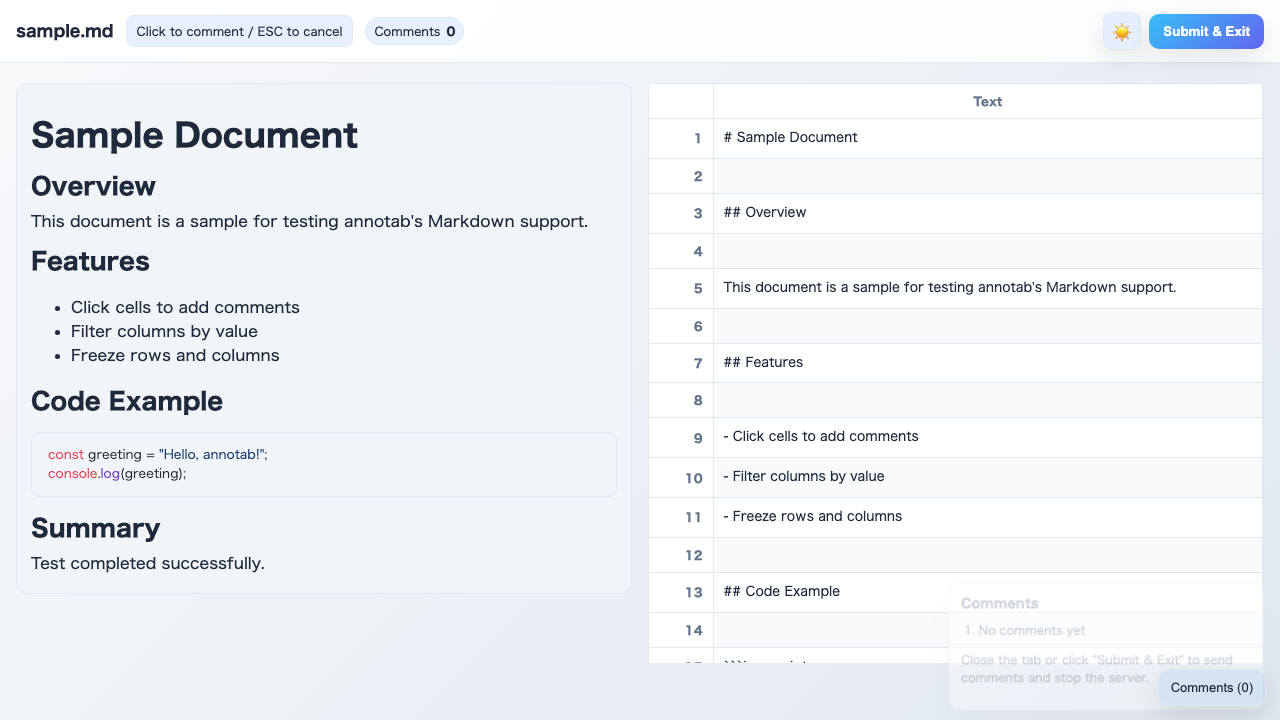
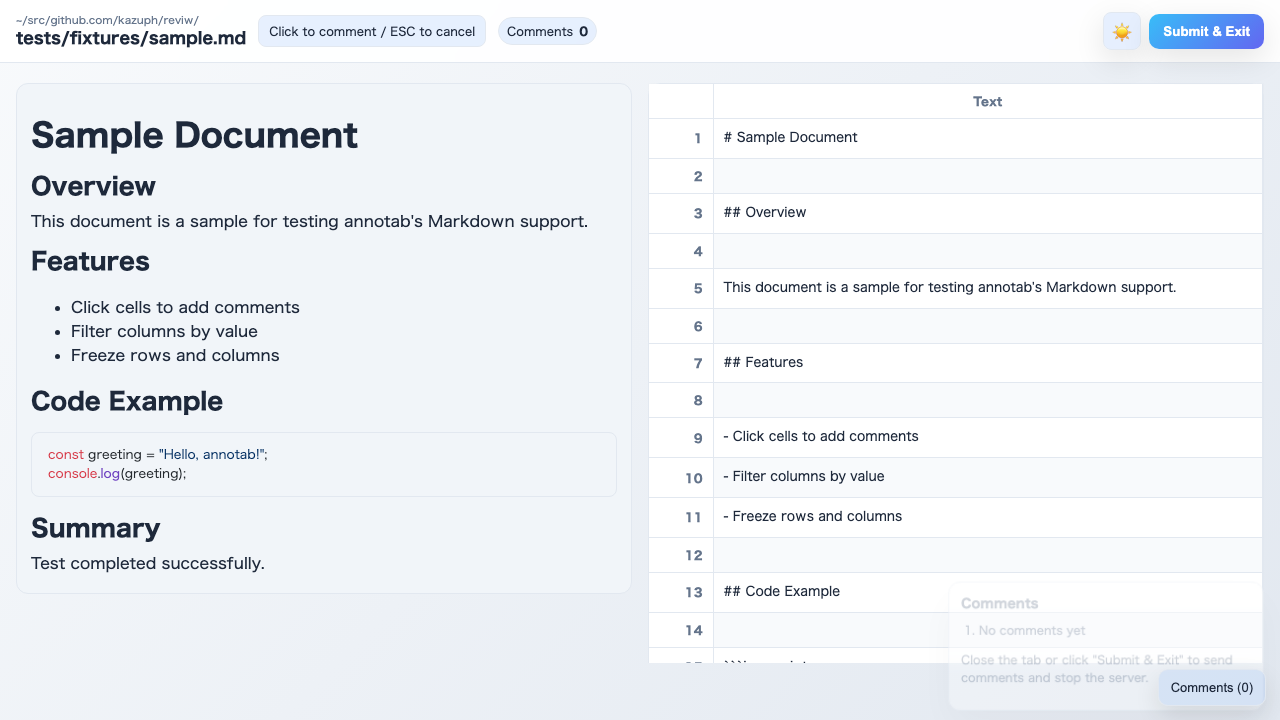
feat: enhance file path handling and UI updates in diff templates
- Introduced `formatTitlePaths` function to manage project root and relative paths for file titles.
- Updated diff and HTML templates to display file paths more clearly, improving user experience.
- Adjusted CSS styles for header elements to enhance layout and readability.
- Added error handling for browser opening failures in CLI commands.

🤖 Generated with [Claude Code](https://claude.com/claude-code)

Changed region(s): [[0.0, 0.0, 0.4688, 0.0611]]

diff --git a/screenshot-test.js b/screenshot-test.js
@@ -1,0 +1,39 @@
+const { chromium } = require('playwright');
+const fs = require('fs');
+const path = require('path');
+
+(async () => {
+  const browser = await chromium.launch();
+  const context = await browser.createContext();
+  const page = await context.newPage();
+
+  try {
+    // ページにアクセス
+    await page.goto('http://localhost:4989', { waitUntil: 'networkidle' });
+    console.log('ページ読み込み完了');
+
+    // 初期状態のスクリーンショット（モーダルが開いた状態）
+    const outputDir = '/Users/kazuph/src/github.com/kazuph/reviw/.artifacts/yaml-questions/images';
+    const filePath = path.join(outputDir, '05-fixed-metadata.png');
+    
+    await page.screenshot({ path: filePath, fullPage: true });
+    console.log(`スクリーンショット保存: ${filePath}`);
+
+    // Document Metadataテーブルを確認
+    const metadataTable = await page.locator('table').first().textContent();
+    console.log('\n=== Document Metadata テーブル ===');
+    console.log(metadataTable);
+
+    // reviw キーが表示されていることを確認
+    if (metadataTable && metadataTable.includes('reviw')) {
+      console.log('\n✓ reviw キーが確認されました');
+    } else {
+      console.log('\n✗ reviw キーが見つかりません');
+    }
+
+  } catch (error) {
+    console.error('エラー:', error);
+  } finally {
+    await browser.close();
+  }
+})();

diff --git a/tests/fixtures/test-questions.md b/tests/fixtures/test-questions.md
@@ -1,0 +1,50 @@
+---
+title: "\u30c6\u30b9\u30c8\u30c9\u30ad\u30e5\u30e1\u30f3\u30c8"
+author: "Test User"
+date: "2025-12-14"
+reviw:
+  questions:
+    - id: auth-method
+      question: "認証方式はOAuthとJWTどちらを使用しますか？"
+      resolved: false
+      answer: ""
+      options:
+        - "OAuth 2.0"
+        - "JWT"
+        - "セッションベース"
+    - id: cache-duration
+      question: "キャッシュ期間は何分が適切ですか？"
+      resolved: true
+      answer: "30分でお願いします"
+    - id: confirm-deploy
+      question: "ステージング環境へのデプロイを実行してよいですか？"
+      resolved: false
+      answer: ""
+      options:
+        - "OK"
+---
+
+# テストドキュメント
+
+## 概要
+
+これはYAML質問機能のテスト用ドキュメントです。
+
+## 機能
+
+- 認証システムの実装
+- キャッシュ機能の最適化
+- デプロイパイプラインの構築
+
+## コード例
+
+```javascript
+const auth = new AuthService({
+  method: 'OAuth', // or 'JWT'
+  cache: 30 // minutes
+});
+```
+
+## まとめ
+
+上記の質問に回答をお願いします。
